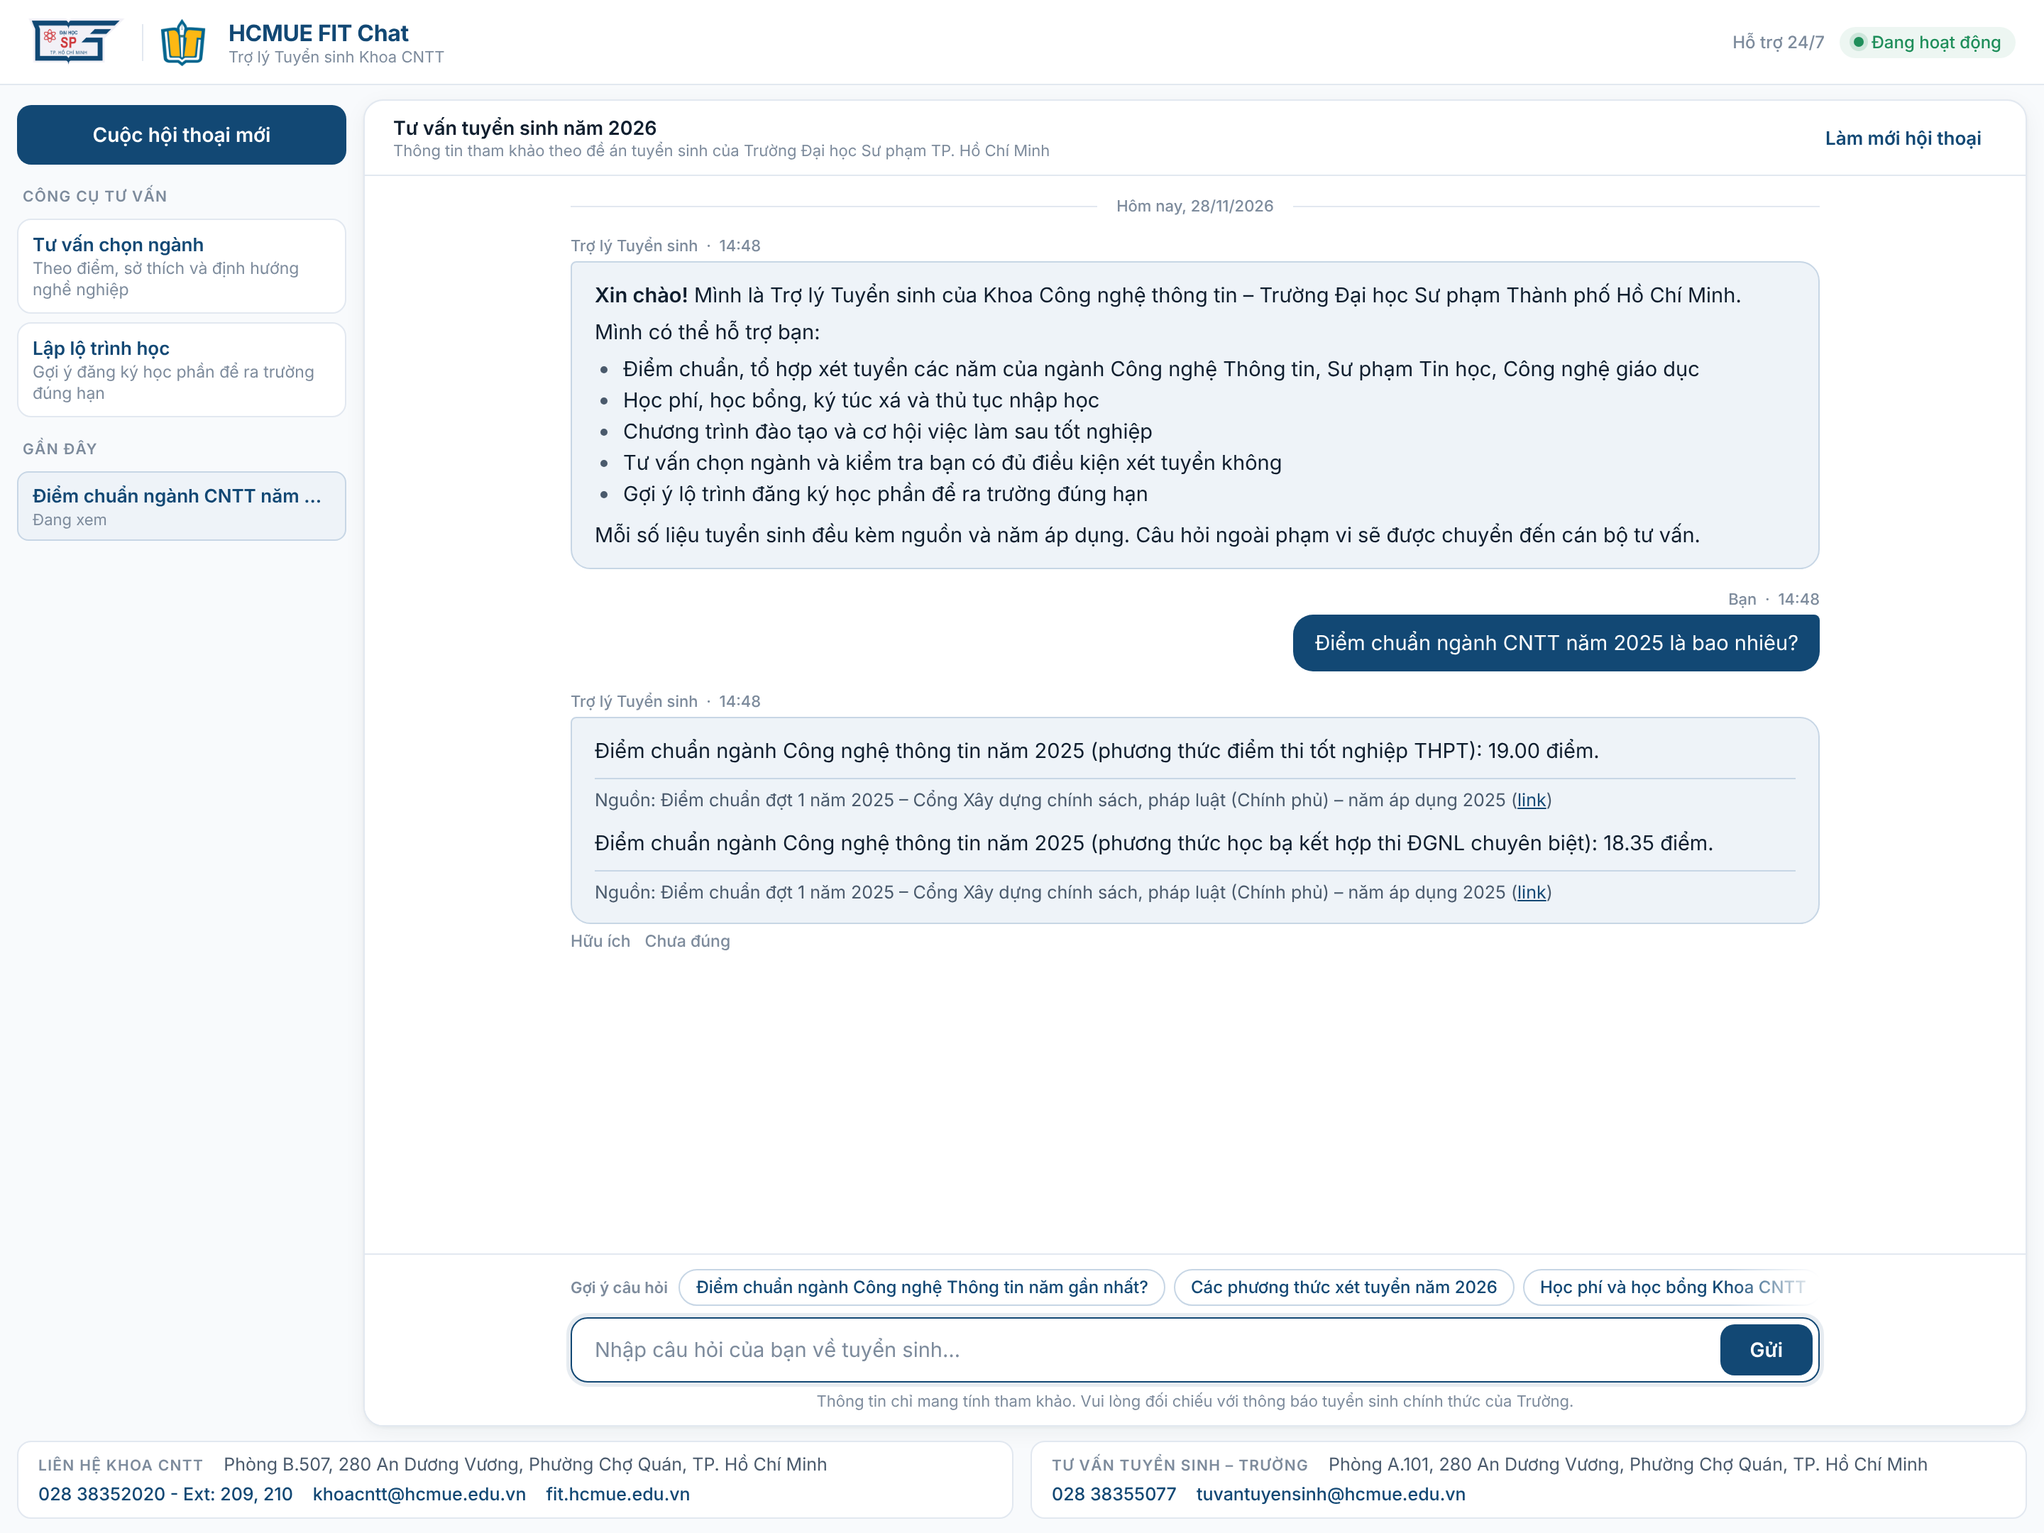
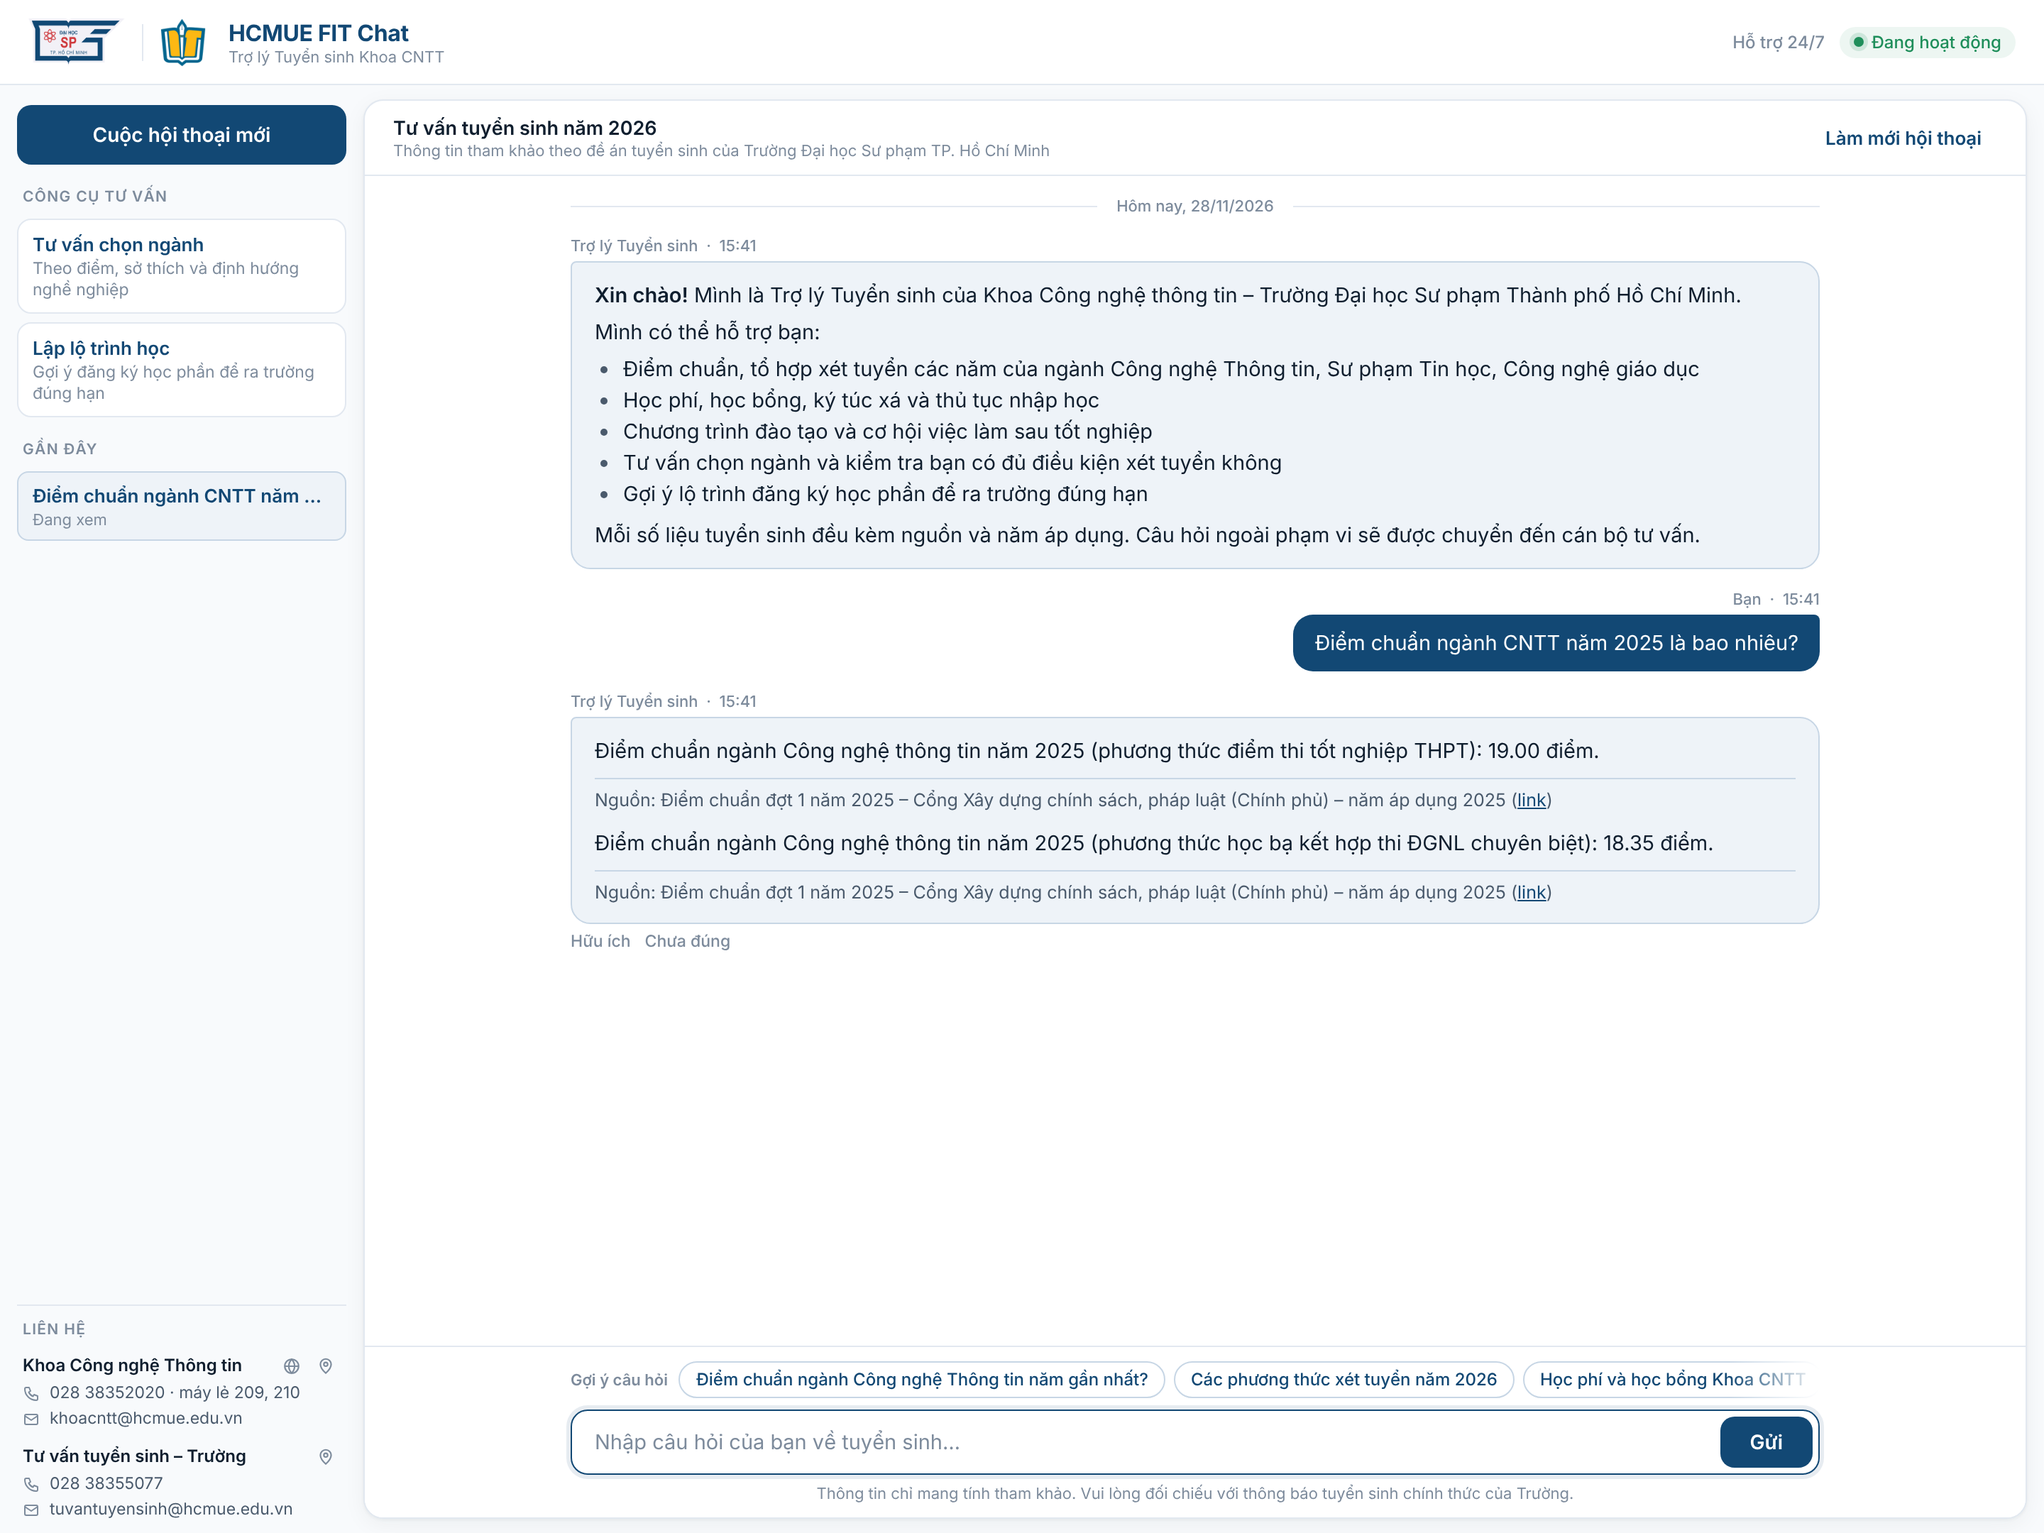
Liên hệ về thanh bên dạng gọn; bỏ footer để khung chat rộng lại
- Bỏ footer liên hệ (chiếm ~65–90px chiều cao khung chat).
- Đáy thanh bên có khối "LIÊN HỆ" gọn (~150px), không đóng khung: mỗi đơn vị một dòng tên kèm
  biểu tượng website và địa chỉ (rê chuột xem địa chỉ, bấm mở bản đồ), một dòng điện thoại
  (bấm để gọi), một dòng email (bấm để gửi thư).
- "Gần đây" vẫn chiếm phần giữa thanh bên nên không có khoảng trống; thanh bên không phải cuộn
  kể cả ở màn hình cao 650px.
- Cập nhật kiểm thử, tài liệu C4 và hình docs/hinh/c4.

Claude-Session: https://claude.ai/code/session_018JoVY2yuYEbWbmjCXAkQAX

Changed region(s): [[0.0, 0.8375, 0.9375, 0.9926]]

diff --git a/templates/index.html b/templates/index.html
@@ -57,6 +57,32 @@
       </div>
     </section>
 
+    <section class="side-contact" aria-label="Thông tin liên hệ">
+      <p class="section-label">LIÊN HỆ</p>
+      {% for ten, dong in lien_he %}{% set d = dict(dong) %}
+      <div class="unit">
+        <div class="unit-head">
+          <p class="unit-name" title="{{ ten }}">{{ 'Khoa Công nghệ Thông tin' if loop.first else 'Tư vấn tuyển sinh – Trường' }}</p>
+          <span class="unit-links">
+            {%- if d.get('Website') %}
+            <a class="icon-link" href="{{ d['Website'] if d['Website'].startswith('http') else 'https://' ~ d['Website'] }}" target="_blank" rel="noopener" title="Website: {{ d['Website'] }}" aria-label="Website {{ d['Website'] }}"><svg width="13" height="13" viewBox="0 0 24 24" aria-hidden="true"><circle cx="12" cy="12" r="9" fill="none" stroke="currentColor" stroke-width="2"/><path d="M3 12h18M12 3c2.5 2.7 3.8 5.7 3.8 9s-1.3 6.3-3.8 9c-2.5-2.7-3.8-5.7-3.8-9s1.3-6.3 3.8-9z" fill="none" stroke="currentColor" stroke-width="2"/></svg></a>
+            {%- endif %}
+            {%- if d.get('Địa chỉ') %}
+            <a class="icon-link" href="https://www.google.com/maps/search/?api=1&amp;query={{ d['Địa chỉ'] | urlencode }}" target="_blank" rel="noopener" title="Địa chỉ: {{ d['Địa chỉ'] }}" aria-label="Địa chỉ: {{ d['Địa chỉ'] }}"><svg width="13" height="13" viewBox="0 0 24 24" aria-hidden="true"><path d="M12 21s-7-6.2-7-11.5A7 7 0 0 1 19 9.5C19 14.8 12 21 12 21z" fill="none" stroke="currentColor" stroke-width="2" stroke-linejoin="round"/><circle cx="12" cy="9.5" r="2.5" fill="none" stroke="currentColor" stroke-width="2"/></svg></a>
+            {%- endif %}
+          </span>
+        </div>
+        {%- if d.get('Điện thoại') %}
+        <a class="unit-row" href="tel:{{ d['Điện thoại'].split(' - ')[0] | replace(' ', '') }}" title="Gọi {{ d['Điện thoại'] }}"><svg width="12" height="12" viewBox="0 0 24 24" aria-hidden="true"><path d="M5 3h4l2 5-2.5 1.5a11 11 0 0 0 6 6L16 13l5 2v4a2 2 0 0 1-2 2A16 16 0 0 1 3 5a2 2 0 0 1 2-2z" fill="none" stroke="currentColor" stroke-width="2" stroke-linejoin="round"/></svg><span>{{ d['Điện thoại'] | replace(' - Ext: ', ' · máy lẻ ') }}</span></a>
+        {%- endif %}
+        {%- if d.get('Email') %}
+        <a class="unit-row" href="mailto:{{ d['Email'] }}" title="Gửi email {{ d['Email'] }}"><svg width="12" height="12" viewBox="0 0 24 24" aria-hidden="true"><rect x="3" y="5" width="18" height="14" rx="2" fill="none" stroke="currentColor" stroke-width="2"/><path d="M3 7l9 6 9-6" fill="none" stroke="currentColor" stroke-width="2" stroke-linejoin="round"/></svg><span>{{ d['Email'] }}</span></a>
+        {%- endif %}
+      </div>
+      {% else %}
+      <p class="empty-note">Đang cập nhật kênh liên hệ chính thức của Khoa.</p>
+      {% endfor %}
+    </section>
   </aside>
 
   <main class="chat" id="chat">
@@ -106,28 +132,6 @@
     </div>
   </main>
 </div>
-
-<footer class="app-footer" aria-label="Thông tin liên hệ">
-  {% for ten, dong in lien_he %}
-  <section class="contact-card" title="{{ ten }}">
-    <p class="contact-head">{{ 'LIÊN HỆ KHOA CNTT' if loop.first else 'TƯ VẤN TUYỂN SINH – TRƯỜNG' }}</p>
-    <p class="contact-line">
-      {%- for nhan, gia_tri in dong %}
-      <span class="contact-item ci-{{ {'Địa chỉ': 'dia-chi', 'Điện thoại': 'dien-thoai', 'Email': 'email', 'Website': 'website', 'Fanpage': 'fanpage'}.get(nhan, 'khac') }}">
-        <span class="sr-only">{{ nhan }}: </span>
-        {%- if nhan == 'Email' -%}<a href="mailto:{{ gia_tri }}">{{ gia_tri }}</a>
-        {%- elif nhan == 'Điện thoại' -%}<a href="tel:{{ gia_tri.split(' - ')[0] | replace(' ', '') }}">{{ gia_tri }}</a>
-        {%- elif nhan in ('Website', 'Fanpage') -%}<a href="{{ gia_tri if gia_tri.startswith('http') else 'https://' ~ gia_tri }}" target="_blank" rel="noopener">{{ gia_tri }}</a>
-        {%- else -%}{{ gia_tri }}{%- endif -%}
-      </span>
-      {%- endfor %}
-    </p>
-  </section>
-  {% else %}
-  <section class="contact-card"><p class="contact-head">LIÊN HỆ KHOA CNTT</p>
-    <p class="contact-line">Đang cập nhật kênh liên hệ chính thức của Khoa.</p></section>
-  {% endfor %}
-</footer>
 
 <dialog id="dlg-tu-van" class="dialog" aria-labelledby="tv-title">
   <form method="dialog" class="dialog-form" id="form-tu-van">

diff --git a/static/css/style.css b/static/css/style.css
@@ -126,21 +126,23 @@ button, input, select, textarea { font: inherit; color: inherit; }
 .conv-item.active { background: var(--primary-subtle); border-color: var(--primary-border); }
 .conv-item.active .conv-title { font-weight: 600; color: var(--primary); }
 
-/* footer liên hệ: hai thẻ cạnh nhau ở cuối trang */
-.app-footer {
-  flex: none; display: grid; grid-template-columns: 1fr 1fr; gap: 12px; padding: 0 12px 10px;
-}
-.contact-card {
-  background: var(--surface); border: 1px solid var(--border); border-radius: 10px; padding: 7px 14px;
-  min-width: 0; display: flex; flex-wrap: wrap; align-items: baseline; align-content: center; gap: 2px 14px;
-  transition: border-color .15s, box-shadow .15s;
-}
-.contact-card:hover { border-color: var(--primary-border); box-shadow: 0 2px 10px rgba(18, 72, 116, .08); }
-.contact-head { font-weight: 600; font-size: 10.5px; line-height: 18px; letter-spacing: .66px; color: var(--text-tertiary); }
-.contact-line { display: contents; }               /* các mục là phần tử flex: xuống dòng nguyên khối */
-.contact-item { font-size: 12.5px; line-height: 18px; color: var(--text-secondary); white-space: nowrap; }
-.contact-line a { color: var(--primary); text-decoration: none; font-weight: 500; }
-.contact-line a:hover { text-decoration: underline; }
+/* liên hệ: khối gọn ở đáy thanh bên – tên đơn vị + biểu tượng website/địa chỉ, 1 dòng điện thoại, 1 dòng email */
+.side-contact { flex: none; display: flex; flex-direction: column; gap: 8px; padding-top: 10px;
+  border-top: 1px solid var(--border); }
+.side-contact .section-label { padding-bottom: 0; }
+.unit { display: flex; flex-direction: column; gap: 1px; padding: 0 4px; }
+.unit-head { display: flex; align-items: center; justify-content: space-between; gap: 6px; min-height: 20px; }
+.unit-name { font-weight: 600; font-size: 12px; line-height: 16px; color: var(--text-primary);
+  overflow: hidden; text-overflow: ellipsis; white-space: nowrap; }
+.unit-links { display: flex; gap: 2px; flex: none; }
+.icon-link { display: inline-flex; align-items: center; justify-content: center; width: 22px; height: 20px;
+  border-radius: 6px; color: var(--text-tertiary); transition: background-color .15s, color .15s; }
+.icon-link:hover { background: var(--primary-subtle); color: var(--primary); }
+.unit-row { display: flex; align-items: center; gap: 7px; font-size: 11.5px; line-height: 17px; color: var(--text-secondary);
+  text-decoration: none; min-width: 0; border-radius: 4px; transition: color .15s; }
+.unit-row svg { flex: none; color: var(--text-tertiary); transition: color .15s; }
+.unit-row span { overflow: hidden; text-overflow: ellipsis; white-space: nowrap; }
+.unit-row:hover, .unit-row:hover svg { color: var(--primary); }
 
 /* vùng chat: "card" trắng chiếm phần còn lại */
 .chat {
@@ -320,13 +322,6 @@ fieldset.field legend { margin-bottom: 8px; }
   body.menu-open .sidebar { transform: none; }
   .backdrop { position: fixed; inset: 0; z-index: 10; background: rgba(15, 30, 46, .35); }
   .chat { margin: 0; border: 0; border-radius: 0; box-shadow: none; }
-  /* điện thoại: footer gọn – mỗi thẻ chỉ giữ số điện thoại và email (bấm để gọi / gửi thư) */
-  .app-footer { gap: 6px; padding: 6px 8px 8px; border-top: 1px solid var(--border); }
-  .contact-card { padding: 5px 9px; border-radius: 8px; display: block; }
-  .contact-head { font-size: 9.5px; line-height: 12px; letter-spacing: .4px; }
-  .contact-line { display: block; }
-  .contact-item { display: block; font-size: 11.5px; line-height: 16px; overflow: hidden; text-overflow: ellipsis; }
-  .contact-item.ci-dia-chi, .contact-item.ci-website, .contact-item.ci-fanpage { display: none; }
   .chat-toolbar { display: none; }
   .messages { padding: 12px; }
   .message-column { gap: 12px; }

diff --git a/tests/test_web.py b/tests/test_web.py
@@ -28,8 +28,8 @@ def _chat(c, text, cid=None, client_id="test"):
 def test_trang_chu_theo_figma(client):
     html = client.get("/").get_data(as_text=True)
     for s in ["HCMUE FIT Chat", "Trợ lý Tuyển sinh Khoa CNTT", "Cuộc hội thoại mới", "GẦN ĐÂY",
-              "CÔNG CỤ TƯ VẤN", "LIÊN HỆ KHOA CNTT", "khoacntt@hcmue.edu.vn",
-              "TƯ VẤN TUYỂN SINH – TRƯỜNG", "tuvantuyensinh@hcmue.edu.vn", "Gợi ý câu hỏi", "Làm mới hội thoại", "Gửi",
+              "CÔNG CỤ TƯ VẤN", "LIÊN HỆ", "Khoa Công nghệ Thông tin", "khoacntt@hcmue.edu.vn",
+              "Tư vấn tuyển sinh – Trường", "tuvantuyensinh@hcmue.edu.vn", "Gợi ý câu hỏi", "Làm mới hội thoại", "Gửi",
               "logo_hcmue.png", "logo_khoa_cntt.png"]:
         assert s in html
     assert "<script>alert" not in html and "CÂU HỎI THƯỜNG GẶP" not in html
@@ -38,11 +38,12 @@ def test_trang_chu_theo_figma(client):
     for s in ["Chế độ kiểm tra", 'id="debug"', 'id="tau"', "Ngưỡng τ", "suy diễn"]:   # không còn chế độ kiểm tra
         assert s not in html
     assert html.count("data-close") == 2 and html.count('class="dialog-foot"') == 2      # nút × và chân hộp thoại
-    # liên hệ là footer (2 thẻ) ở cuối trang, không nằm trong thanh bên; điện thoại / email bấm được
-    aside, footer = html[html.index("<aside"):html.index("</aside>")], html[html.index('<footer class="app-footer"'):]
-    assert "LIÊN HỆ KHOA CNTT" not in aside and "spacer" not in aside
-    assert footer.count('class="contact-card"') == 2 and "LIÊN HỆ KHOA CNTT" in footer
-    assert 'href="mailto:khoacntt@hcmue.edu.vn"' in footer and 'href="tel:02838355077"' in footer
+    # liên hệ: khối gọn ở đáy thanh bên (không footer); điện thoại / email bấm được, địa chỉ ở biểu tượng bản đồ
+    aside = html[html.index("<aside"):html.index("</aside>")]
+    assert "app-footer" not in html and "spacer" not in aside
+    assert aside.count('class="unit"') == 2 and aside.index("GẦN ĐÂY") < aside.index("LIÊN HỆ")
+    assert 'href="mailto:khoacntt@hcmue.edu.vn"' in aside and 'href="tel:02838355077"' in aside
+    assert 'title="Địa chỉ: Phòng B.507' in aside and "máy lẻ 209, 210" in aside
 
 
 def test_favicon_la_logo_khoa(client):

diff --git a/docs/C4_CHATBOT.md b/docs/C4_CHATBOT.md
@@ -43,12 +43,12 @@ underthesea mà mô hình được huấn luyện với underthesea, `/api/trang
 |---|---|
 | Header (60px, một hàng) | trái: logo Trường + logo Khoa + "HCMUE FIT Chat" (dưới là "Trợ lý Tuyển sinh Khoa CNTT"); phải: "Hỗ trợ 24/7" + nhãn "Đang hoạt động". Favicon là logo Khoa (`static/favicon.ico`, `static/img/favicon-*.png`) |
 | Thanh bên (256px, nền #F8FAFC) | nút chính **Cuộc hội thoại mới** · CÔNG CỤ TƯ VẤN (thẻ nhỏ: tư vấn chọn ngành – C2, lập lộ trình học – C1) · GẦN ĐÂY (hội thoại của trình duyệt này, chiếm phần còn lại của thanh bên và tự cuộn khi dài; khi trống hiện dòng chữ nhỏ kèm biểu tượng) |
-| Footer liên hệ (cuối trang) | hai thẻ **Liên hệ Khoa CNTT** và **Tư vấn tuyển sinh – Trường**: địa chỉ, điện thoại (bấm để gọi), email (bấm để gửi thư), website. Trang cố định đúng chiều cao màn hình (header – thân – footer), không tự cuộn nên không lộ khoảng trống khi kéo; trên điện thoại mỗi thẻ chỉ giữ điện thoại và email |
+| Liên hệ (đáy thanh bên) | khối gọn "LIÊN HỆ" (~150px): mỗi đơn vị (Khoa CNTT, Tư vấn tuyển sinh – Trường) một dòng tên kèm biểu tượng website và địa chỉ (rê chuột xem địa chỉ, bấm mở bản đồ), một dòng điện thoại (bấm để gọi) và một dòng email (bấm để gửi thư). Danh sách "Gần đây" chiếm phần giữa nên không còn khoảng trống; trang cố định đúng chiều cao màn hình, không tự cuộn |
 | Vùng chat (card trắng, bo 14px, bóng nhẹ) | tin nhắn bot (nền xanh nhạt) / người dùng (nền #124874), dòng **Nguồn … – năm áp dụng …** tách riêng dưới mỗi số liệu, nút Hữu ích / Chưa đúng |
 | Ô nhập (cố định ở đáy card) | câu hỏi gợi ý một hàng ngay trên ô nhập, cuộn ngang mượt (lăn chuột cũng cuộn ngang); chỉ giữ câu đã kiểm thử trả lời được; Enter để gửi |
 | Hộp thoại công cụ tư vấn | rộng 880px (tư vấn chọn ngành, 2 cột) / 960px (lộ trình, bảng học phần 2 cột); phần đầu – thân – chân: nút **Tư vấn / Lập lộ trình** luôn hiện ở chân hộp thoại, không phải cuộn; đóng bằng nút ×, nút Đóng, phím Esc hoặc bấm ra vùng tối bên ngoài |
 | Ngôn ngữ | xưng **mình – bạn**; không hiện thuật ngữ kỹ thuật (ý định, độ tin cậy, mã luật R1–R33, "suy diễn", DXT…). Kết quả C2 nói bằng lời thường: "Điểm xét tuyển" (= DXT), "Điểm xét tuyển cao nhất" (= DXT_best), "So với điểm chuẩn: cao hơn 4.00 điểm"; lộ trình C1 không in phần giả định (đã trình bày trong `docs/C1_LO_TRINH.md`) |
-| Điện thoại (≤ 900px) | header 56px một hàng + nút Menu mở thanh bên dạng ngăn kéo, vùng chat tràn màn hình, chip cuộn ngang, footer liên hệ 2 thẻ nhỏ |
+| Điện thoại (≤ 900px) | header 56px một hàng + nút Menu mở thanh bên dạng ngăn kéo, vùng chat tràn màn hình, chip cuộn ngang |
 
 Giao diện chỉ hiển thị: HTML câu trả lời do `src/web/markdown_lite.py` tạo từ văn bản của engine, mọi
 nội dung người dùng được escape. Hội thoại lưu trong bộ nhớ máy chủ theo `client_id` của trình duyệt.
